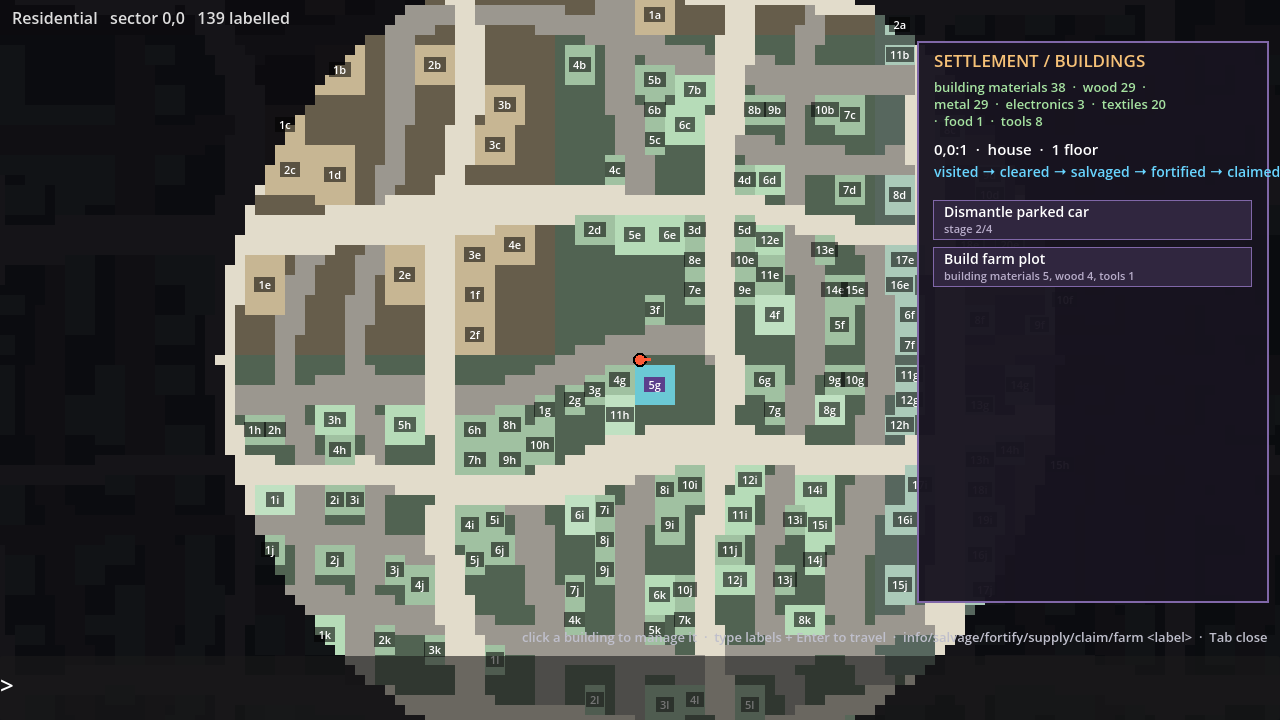
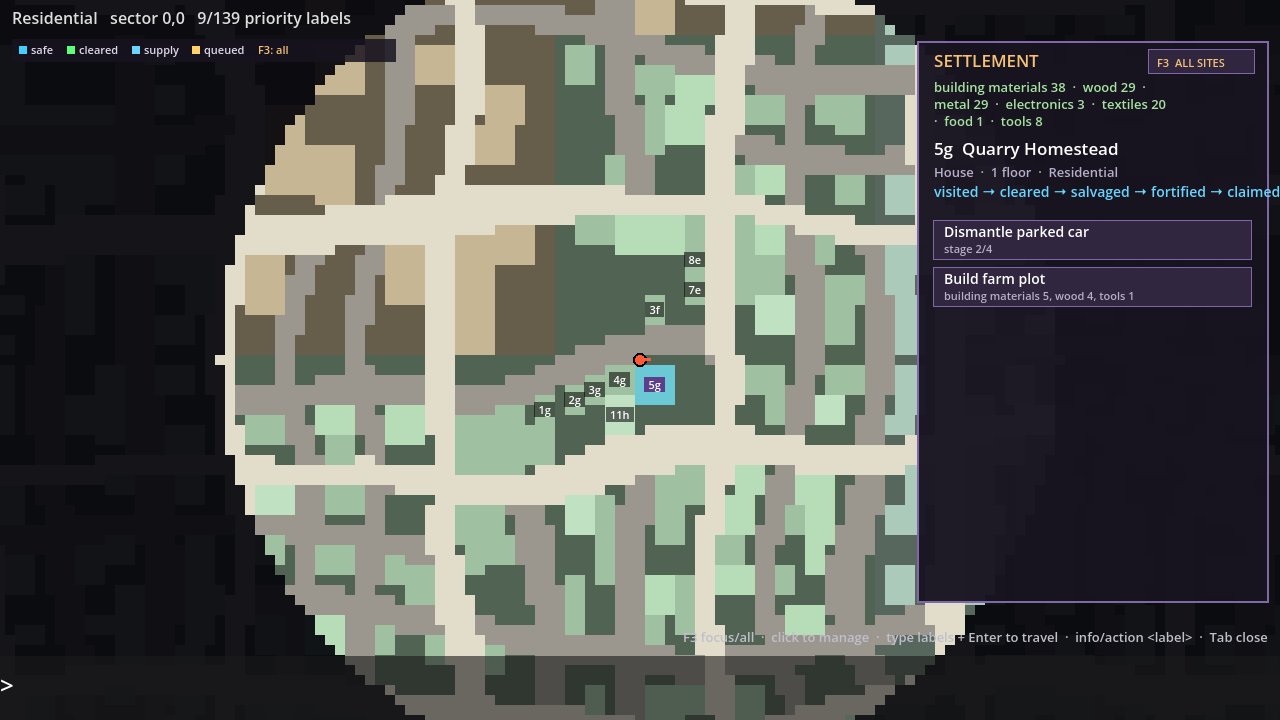
Add object salvage and clarify settlement UX

diff --git a/README.md b/README.md
@@ -55,6 +55,8 @@ report `Identifier not found: World` — ignore those lines from the parse check
 | `scenes/tests/test_settlement.tscn` | clear ≠ claim, material-class salvage, four-stage vehicle teardown, fortify, first base, required supply link for the second base, claim, and persistent furniture placement |
 | `scenes/tests/test_safezone_transition.tscn` | at-door claim immediately enters the safe zone and removes retained street threats before typing combat is disabled |
 | `scenes/tests/test_tab_map.tscn` | supply-route caching/invalidation, degenerate-route rendering, and panel pointer capture |
+| `scenes/tests/test_construction.tscn` | placement ghost validity, rotation, confirm/cancel, full undo, partial dismantle, and upper-floor farm rejection |
+| `scenes/tests/test_citizen_navigation.tscn` | deterministic yard routing around buildings, farms, walls and furniture, plus rebuild-position preservation |
 | `scenes/tests/test_interior.tscn` (~5 min, run it ALONE) | full clear loop: door word → enter → fight → open doors → climb (stairwell landing) → auto-return from dead ends → down → exit → next building |
 | `scenes/tests/check_stairs.tscn` | generator invariants over ~900 storeys: stair consistency, doors with words, full cell coverage/connectivity, complete apartment programs (living/kitchen/bathroom/bedroom), corridor access, and furnishing coverage |
 | `scenes/tests/check_fling.tscn` | a kicked door leaf really flies (physics) |
@@ -161,6 +163,12 @@ Click its label in the Tab map (or type `info <label>`) to open the building pan
    typed street travel, and `PageUp/PageDown` changes storeys. `B` toggles build mode, `Q/E`
    selects wall/crate/bed/chair/farm, and `F` places it. Farms produce food and seed-derived
    citizens walk deterministic waypoints inside the perimeter.
+
+Generated furnishings retain stable object IDs after claiming. Walk close to an intact item
+and press `X` to dismantle that specific bed, television, fridge, rug, fixture, or other prop;
+the object disappears, its material-class yield is shown, and the removed ID persists in the
+save. Build mode provides a green/red placement ghost: `R` rotates, `F` confirms, `Esc`
+cancels, and `U` gives a ten-second full-refund undo before becoming a 50% dismantle action.
 
 The Tab panel also accepts `salvage`, `car`, `fortify`, `supply`, `claim`, and `farm` followed
 by a current map label. All geometry and yields derive from stable building/prop seeds; only
